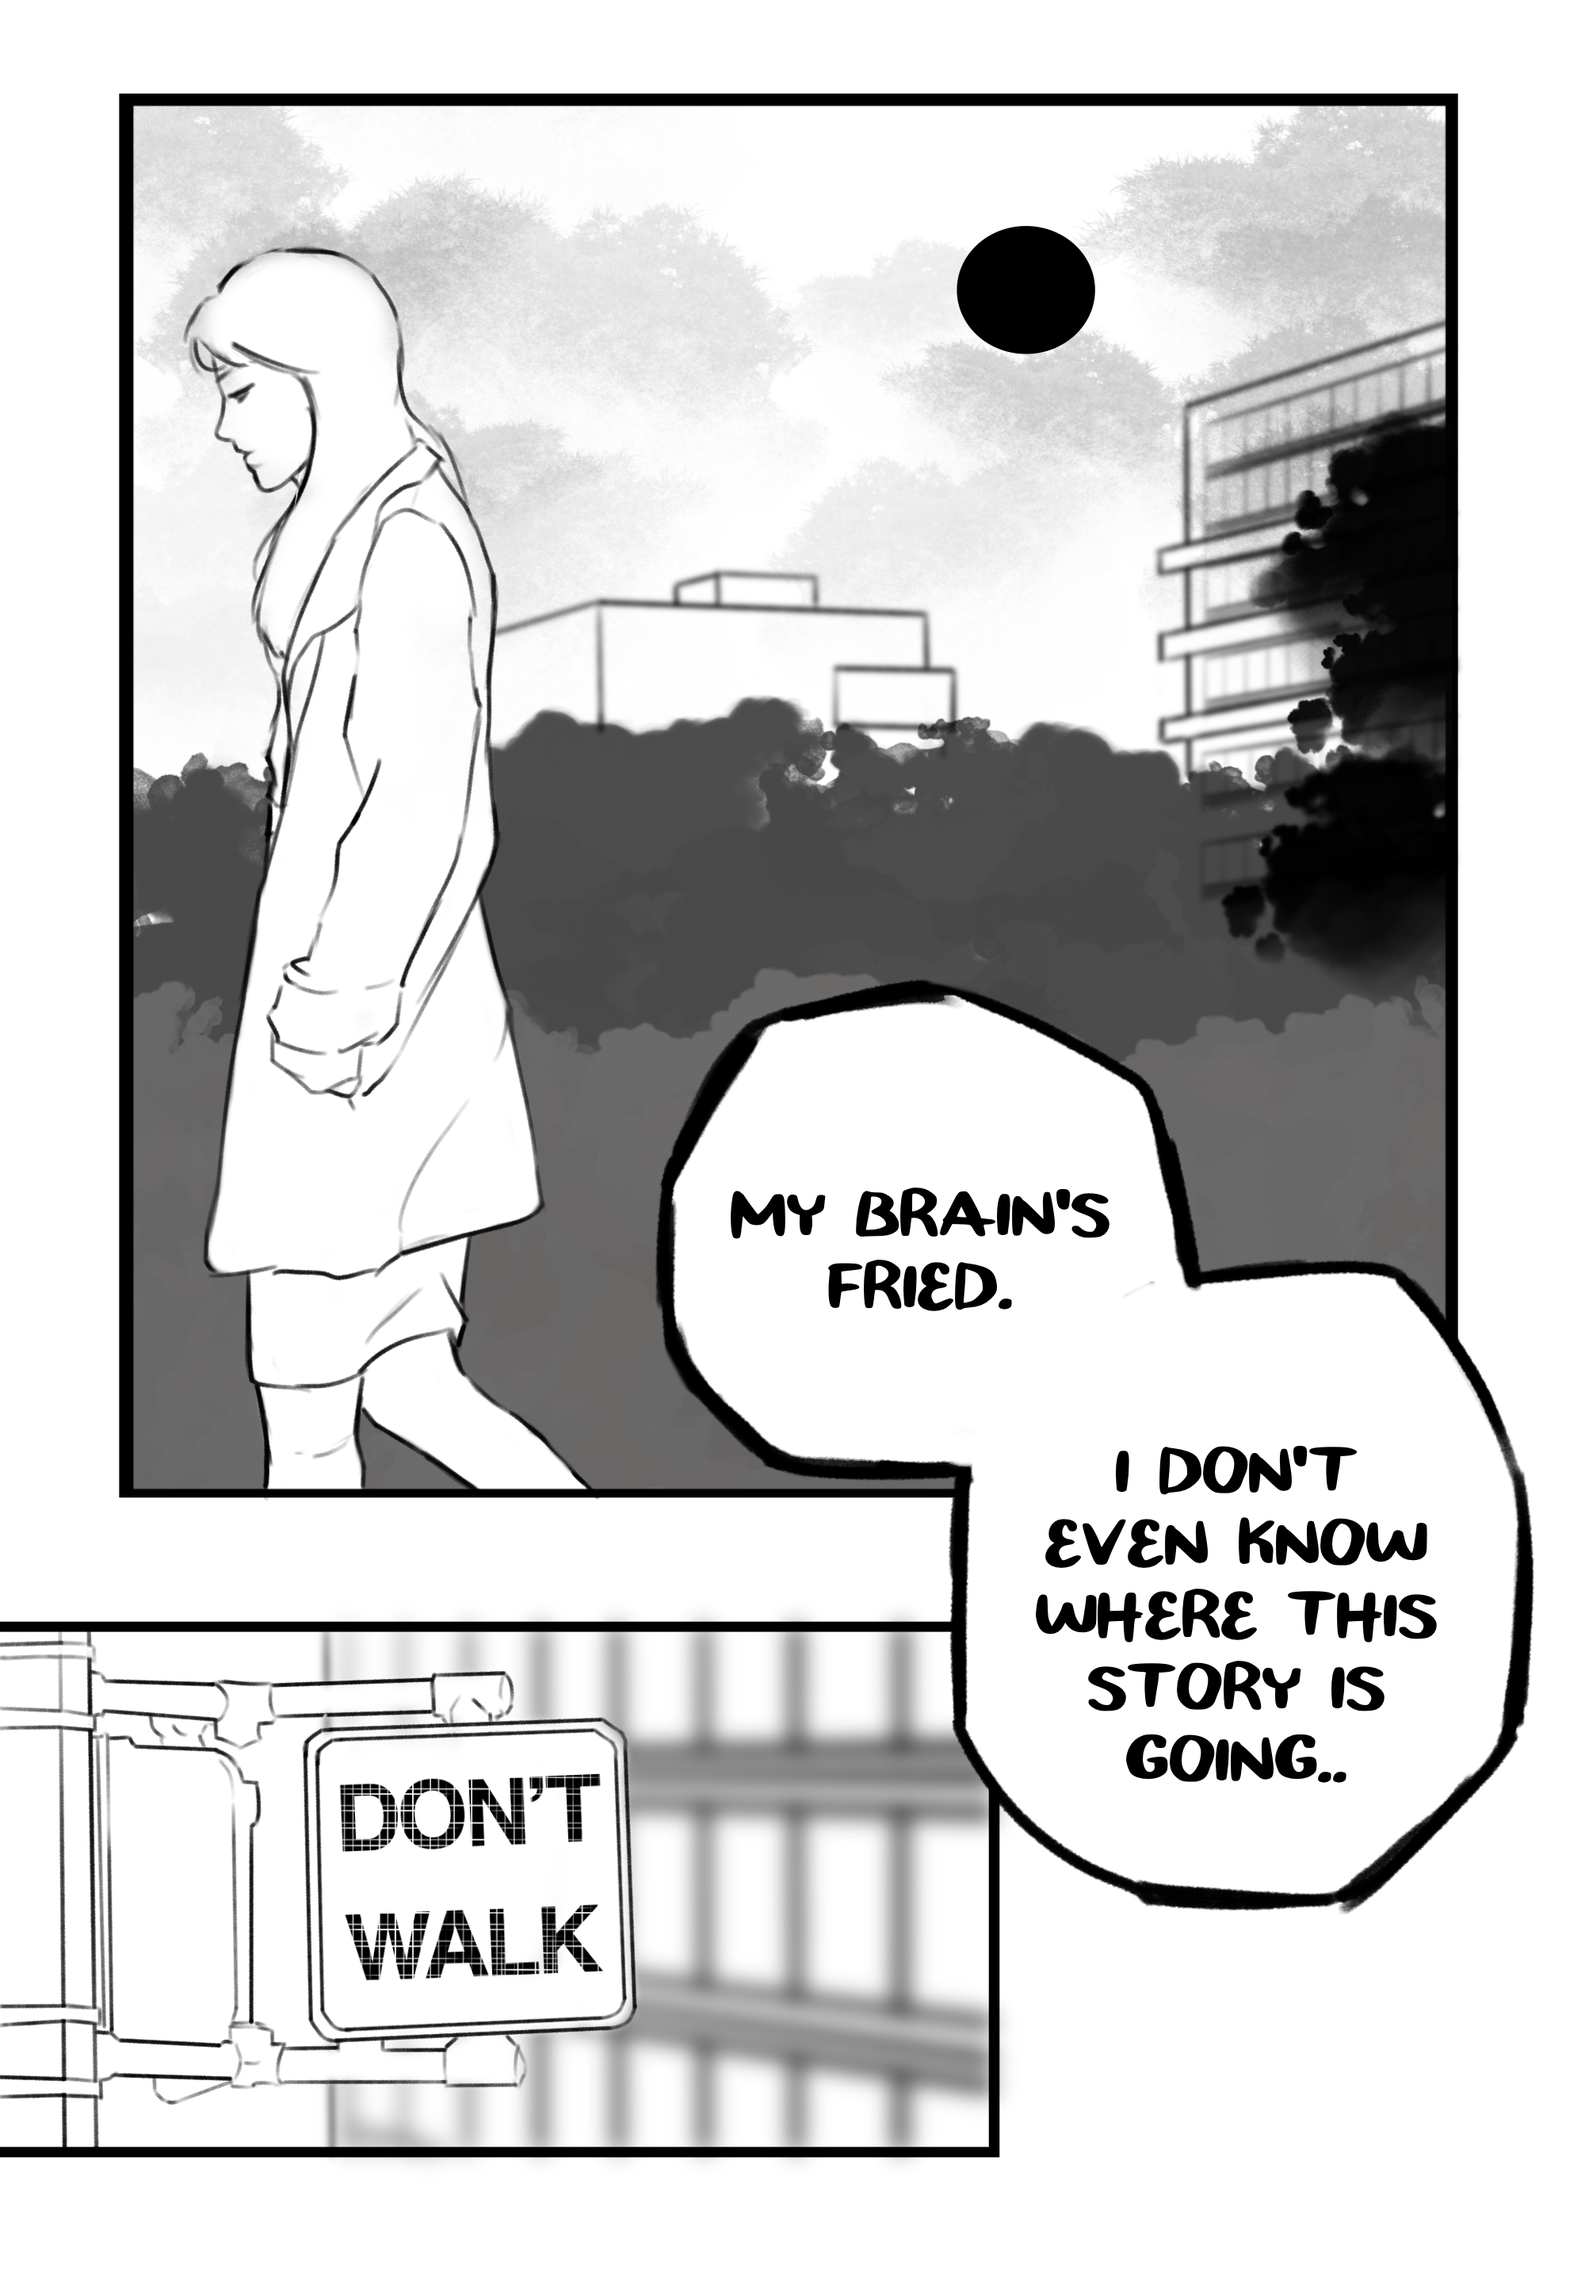
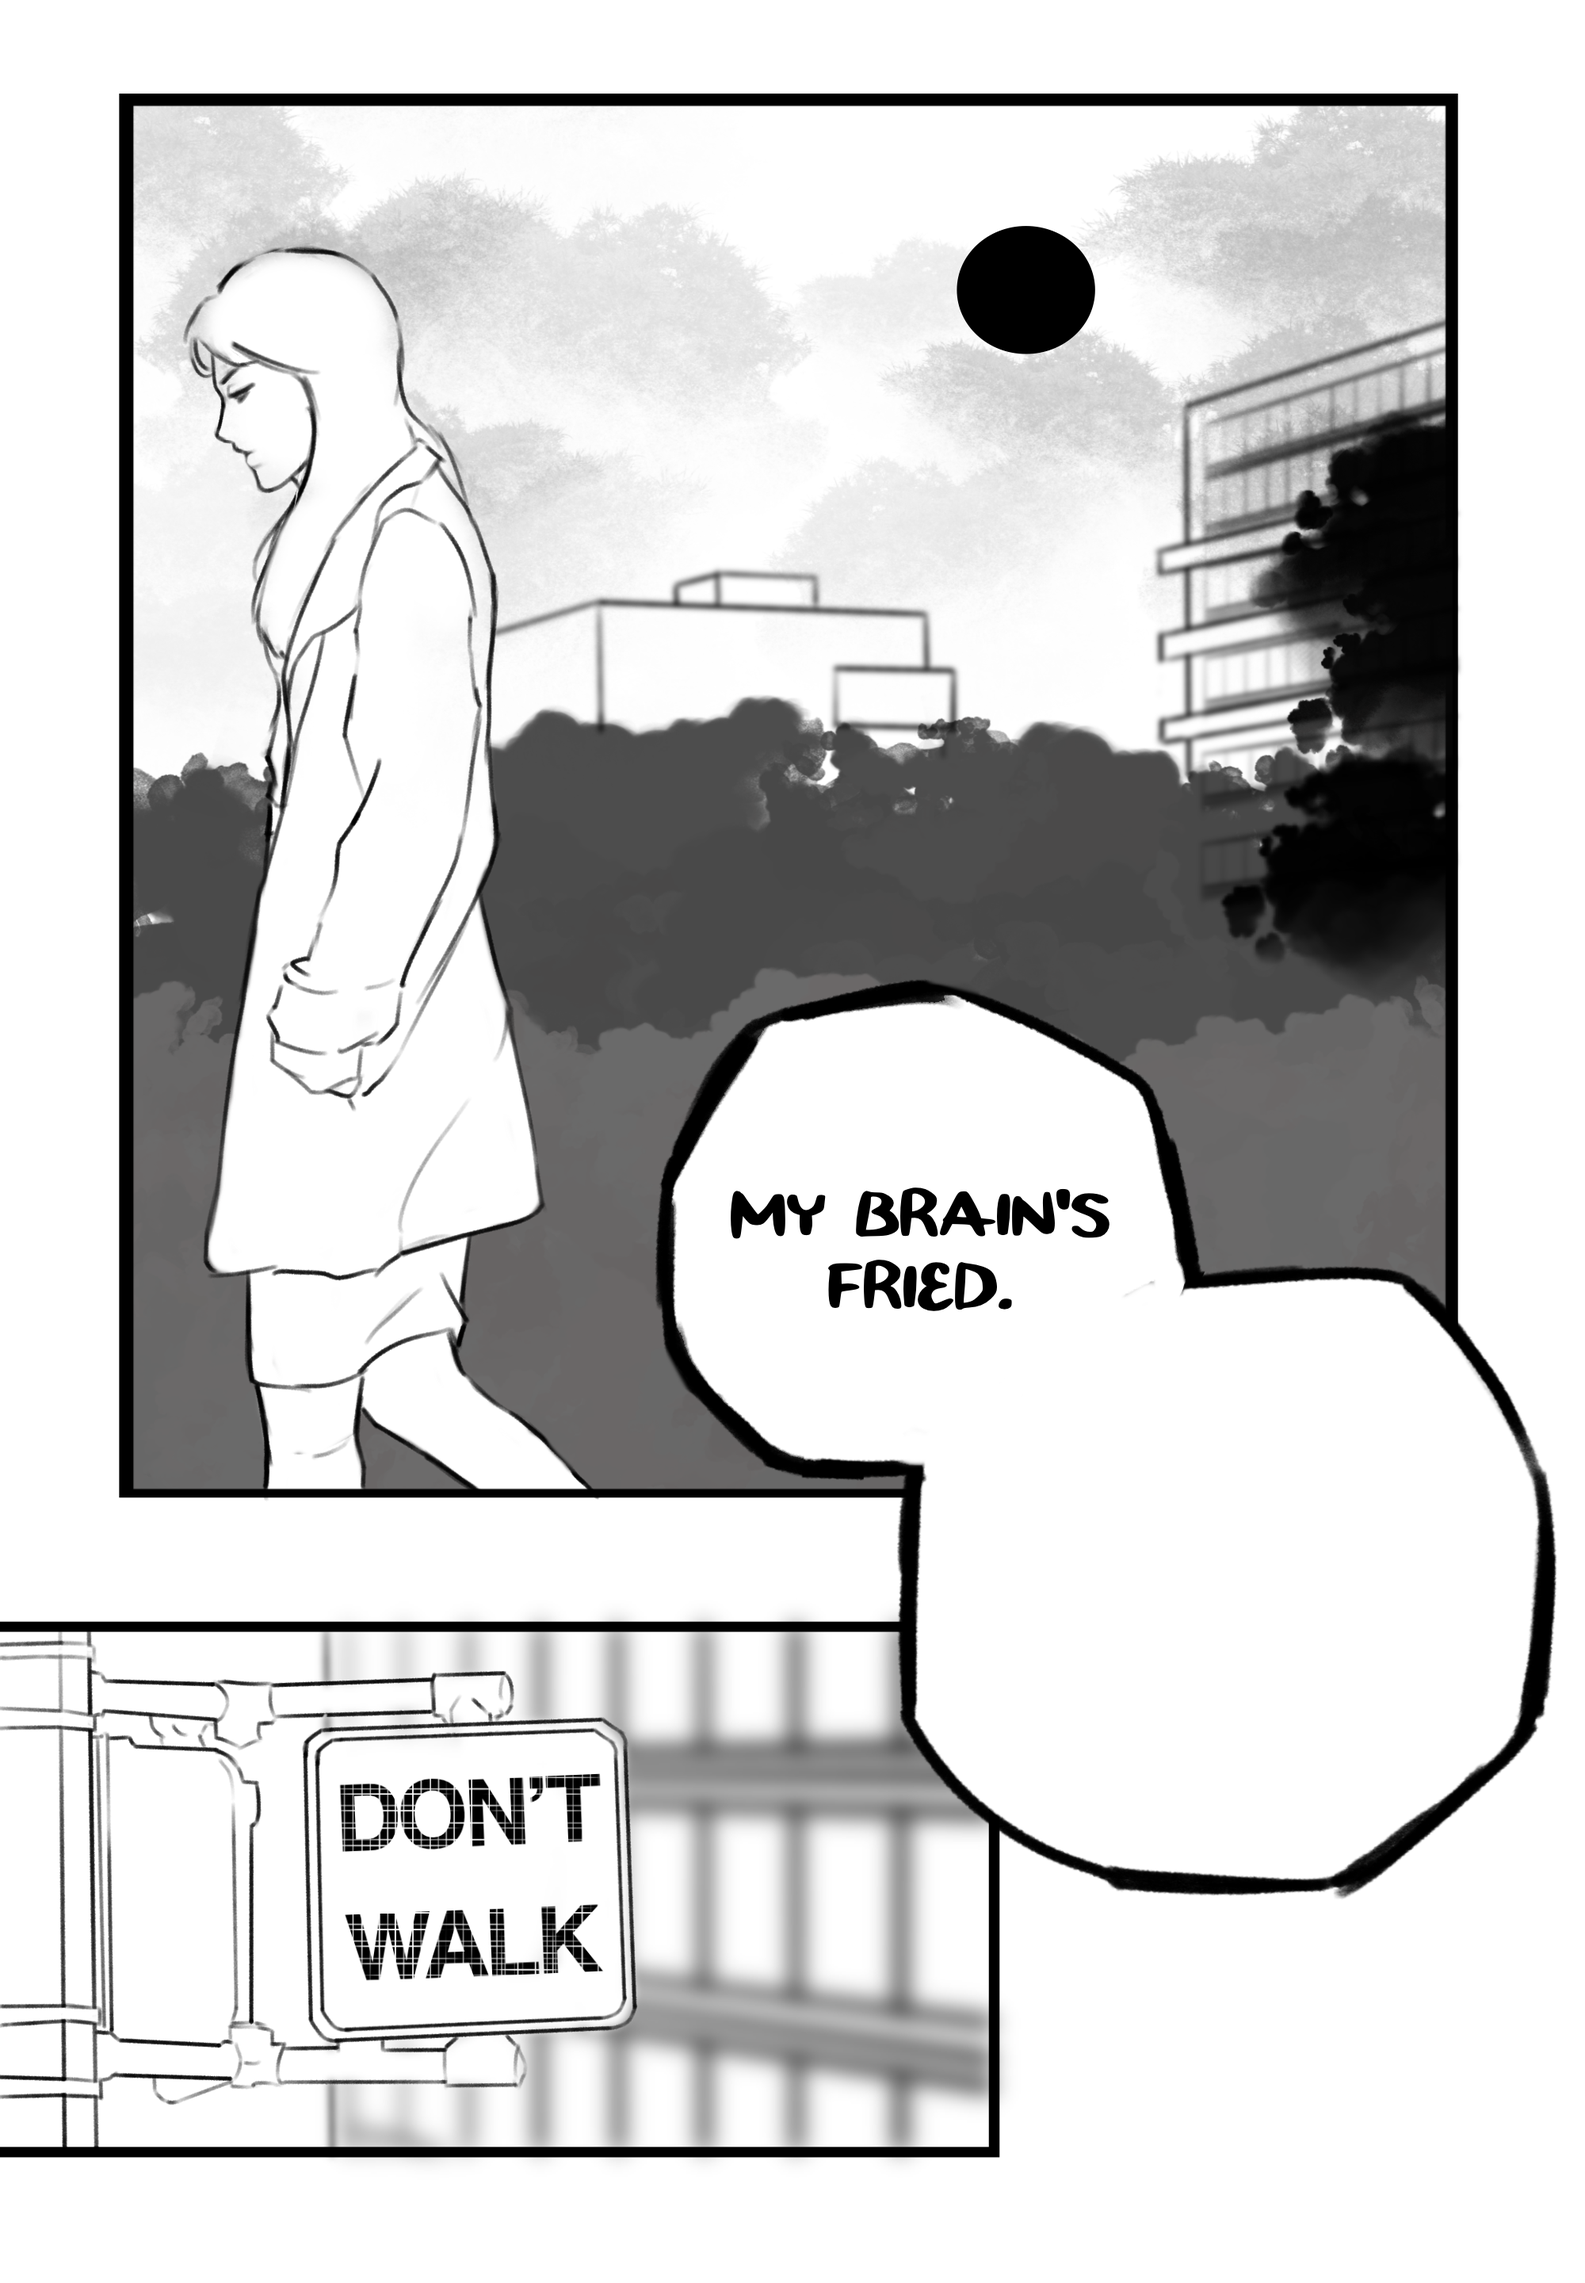
task: updates panels

diff --git a/game/src/constants/index.js b/game/src/constants/index.js
@@ -135,11 +135,11 @@ export const PANELS = [
   {
     id: 9,
     background: panel10,
-    mc_dialogue: [" "],
-    mc_dialogue_x: "2.7rem",
-    mc_dialogue_y: "10rem",
+    mc_dialogue: ["i don't even know where this story is going.."],
+    mc_dialogue_x: "17.5rem",
+    mc_dialogue_y: "29rem",
     rotate: "0deg",
-    size: "30px",
+    size: "23px",
     other_dialogues: () => [],
     combat: false,
     next_id: 10,
@@ -147,11 +147,11 @@ export const PANELS = [
   {
     id: 10,
     background: panel11,
-    mc_dialogue: [" "],
-    mc_dialogue_x: "2.7rem",
-    mc_dialogue_y: "10rem",
+    mc_dialogue: ["maybe then i'll be"],
+    mc_dialogue_x: "10rem",
+    mc_dialogue_y: "36rem",
     rotate: "0deg",
-    size: "30px",
+    size: "25px",
     other_dialogues: () => [],
     combat: false,
     next_id: 11,
@@ -159,11 +159,11 @@ export const PANELS = [
   {
     id: 11,
     background: panel12,
-    mc_dialogue: [" "],
-    mc_dialogue_x: "2.7rem",
-    mc_dialogue_y: "10rem",
+    mc_dialogue: ["screech"],
+    mc_dialogue_x: "5rem",
+    mc_dialogue_y: "30rem",
     rotate: "0deg",
-    size: "30px",
+    size: "80px",
     other_dialogues: () => [],
     combat: false,
     next_id: 12,
@@ -171,11 +171,11 @@ export const PANELS = [
   {
     id: 12,
     background: panel13,
-    mc_dialogue: [" "],
-    mc_dialogue_x: "2.7rem",
-    mc_dialogue_y: "10rem",
+    mc_dialogue: ["good enough."],
+    mc_dialogue_x: "9rem",
+    mc_dialogue_y: "28rem",
     rotate: "0deg",
-    size: "30px",
+    size: "23px",
     other_dialogues: () => [`This is a typing game.`],
     combat: false,
     next_id: 13,
